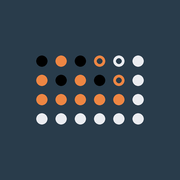
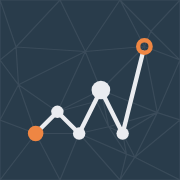
Új logó: útvonal-jel (hálóval nagy méretben)
A régi pöttymátrix helyett hat pötty cikcakkban, folytonos vonallal, a
narancs kezdőponttól a narancs gyűrűig; nagy méretben halvány
háromszögháló mögötte. A színek a meglévő mark-* tokenekből.

Claude-Session: https://claude.ai/code/session_01H1wmoSmhiEtFXmTDfpv1dW

diff --git a/index.html b/index.html
@@ -82,8 +82,7 @@
   button { font: inherit; color: inherit; cursor: pointer; }
   button:focus-visible { outline: 2px solid var(--fg); outline-offset: 3px; }
   h1, h2, h3, p { margin: 0; }
-  .mk .f{fill:var(--mark-filler)}.mk .l{fill:var(--mark-l)}.mk .b{fill:var(--mark-b)}.mk .lr{stroke:var(--mark-l)}.mk .br{stroke:var(--mark-ring)}
-  .mk circle[stroke-width] { fill: none; }
+  .mk .ln{stroke:var(--mark-l)}.mk .dt{fill:var(--mark-l)}.mk .st{fill:var(--mark-b)}.mk .en{stroke:var(--mark-ring)}.mk .ms{stroke:var(--mark-l);stroke-opacity:.09}
 
   /* ---------- fejléc ---------- */
   .head { display: flex; align-items: center; gap: var(--space-4); margin: var(--space-4) 0 var(--space-6); }
@@ -1801,7 +1800,7 @@ ${WS.done ? `<button class="big-btn" data-go="home">Vissza a témákhoz</button>
   }
 
   /* ================= nézetek ================= */
-  const MARK = '<svg class="mk" viewBox="0 0 81 53" role="img" aria-label="laszlobiri jel"><g transform="rotate(180 40.5 26.5)"><g transform="translate(81 0) rotate(90)"><circle class="f" cx="47.5" cy="5.5" r="4"/><circle class="f" cx="33.5" cy="19.5" r="4"/><circle class="f" cx="47.5" cy="33.5" r="4"/><circle class="f" cx="33.5" cy="47.5" r="4"/><circle class="l" cx="5.5" cy="5.5" r="4"/><circle class="l" cx="5.5" cy="19.5" r="4"/><circle class="l" cx="5.5" cy="33.5" r="4"/><circle class="l" cx="5.5" cy="47.5" r="4"/><circle class="l" cx="5.5" cy="61.5" r="4"/><circle class="l" cx="5.5" cy="75.5" r="4"/><circle class="l" cx="19.5" cy="75.5" r="4"/><circle class="l" cx="33.5" cy="75.5" r="4"/><circle class="l" cx="47.5" cy="75.5" r="4"/><circle class="b" cx="19.5" cy="5.5" r="4"/><circle class="b" cx="19.5" cy="19.5" r="4"/><circle class="b" cx="19.5" cy="33.5" r="4"/><circle class="b" cx="19.5" cy="47.5" r="4"/><circle class="b" cx="19.5" cy="61.5" r="4"/><circle class="b" cx="33.5" cy="5.5" r="4"/><circle class="b" cx="33.5" cy="33.5" r="4"/><circle class="b" cx="47.5" cy="19.5" r="4"/><circle class="lr" cx="47.5" cy="61.5" r="3" fill="none" stroke-width="2"/><circle class="br" cx="33.5" cy="61.5" r="3" fill="none" stroke-width="2"/><circle class="br" cx="47.5" cy="47.5" r="3" fill="none" stroke-width="2"/></g></g></svg>';
+  const MARK = '<svg class="mk" viewBox="0 0 86 72" role="img" aria-label="laszlobiri jel"><polyline class="ln" fill="none" stroke-width="2.8" stroke-linecap="round" stroke-linejoin="round" points="8,64 22,50 36,64 50,36 64,64 77.03,11.88"/><circle class="st" cx="8" cy="64" r="5"/><circle class="dt" cx="22" cy="50" r="4"/><circle class="dt" cx="36" cy="64" r="4"/><circle class="dt" cx="50" cy="36" r="6"/><circle class="dt" cx="64" cy="64" r="4"/><circle class="en" cx="78" cy="8" r="4" fill="none" stroke-width="2.8"/></svg>';
 
   function dotsHtml(res, now, big) {
     let h = `<div class="dots${big ? ' big' : ''}" role="img" aria-label="${res.filter(Boolean).length} jó válasz a ${res.filter(v => v !== undefined).length} megválaszolt kérdésből">`;
